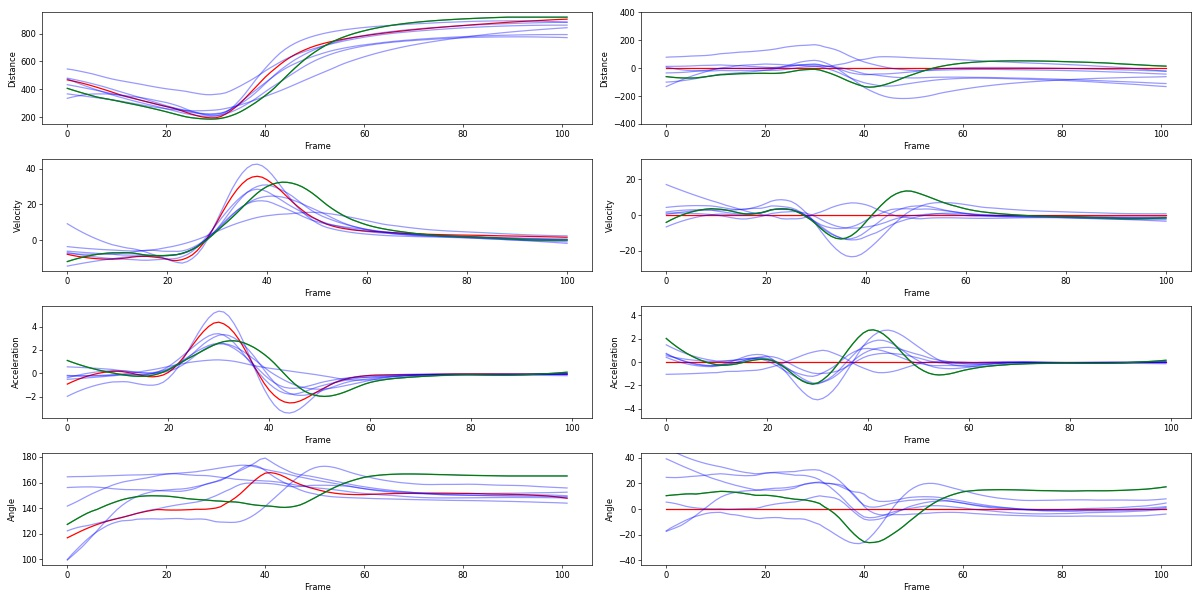
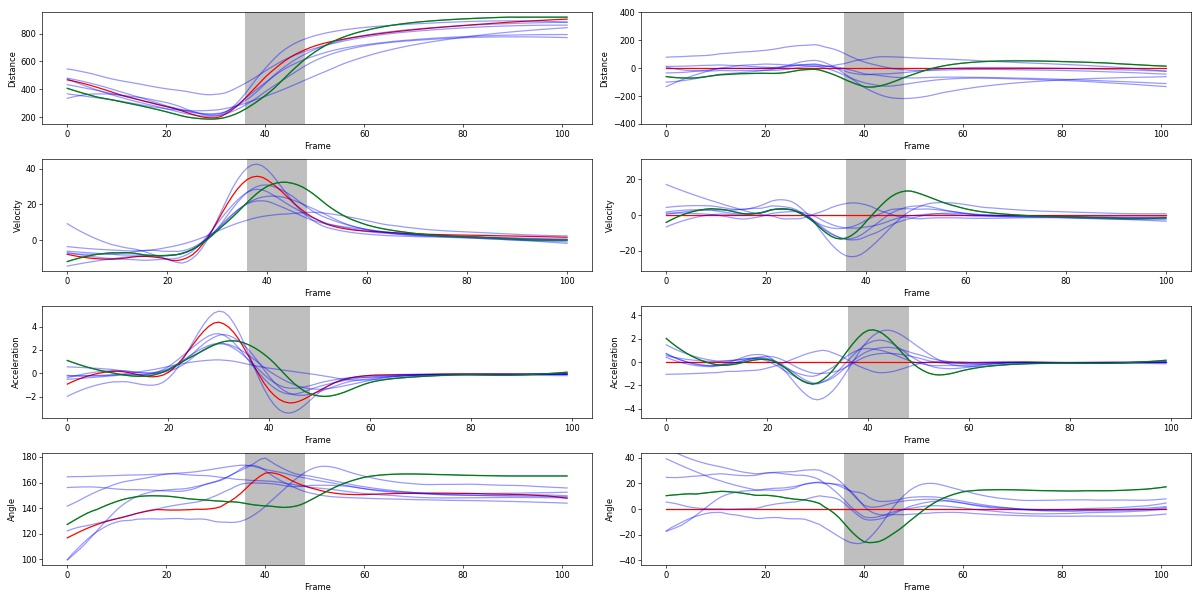
week6 end

diff --git a/vis.py b/vis.py
@@ -10,6 +10,7 @@ import matplotlib.pyplot as plt
 from mpl_toolkits.mplot3d import Axes3D
 from colour import Color
 import time
+from smart_frame_select import smart_sel
 from v1f import v1
 from v2f import v2
 from v3f import v3
@@ -279,7 +280,7 @@ def Hagerstrand(plot1,index,bones,joints,graph_id):
         
 def plotpositionalderivatives(index,bones,joints,plot_num):
     #plot number starts from 0 i.e. plot 0  is for rf3
-    
+    hl= smart_sel()
     fig, axs = plt.subplots(4,2,figsize=(20, 10))
    
     
@@ -298,9 +299,7 @@ def plotpositionalderivatives(index,bones,joints,plot_num):
     #normalise
     ymin, ymax = axs[0,0].get_ylim()
     y_range = ymax-ymin
-
-
-    
+        
     df=v8(index)
     axs[0,1].plot(df.iloc[0,:],'r')
     axs[0,1].plot(df.iloc[1,:],'b',alpha=0.4)
@@ -315,8 +314,8 @@ def plotpositionalderivatives(index,bones,joints,plot_num):
     axs[0,1].set_xlabel('Frame')   
     #normalise
     axs[0,1].set_ylim([-y_range/2, y_range/2])
-
     
+
     df=v2(index)
     axs[1,0].plot(df.iloc[0,:],'r')
     axs[1,0].plot(df.iloc[1,:],'b',alpha=0.4)
@@ -347,6 +346,8 @@ def plotpositionalderivatives(index,bones,joints,plot_num):
     axs[1,1].set_xlabel('Frame')   
     #normalise
     axs[1,1].set_ylim([-y_range/2, y_range/2])        
+
+    
     
     df=v3(index)
     axs[2,0].plot(df.iloc[0,:],'r')
@@ -364,6 +365,8 @@ def plotpositionalderivatives(index,bones,joints,plot_num):
     ymin, ymax = axs[2,0].get_ylim()
     y_range = ymax-ymin
 
+
+
     df=v10(index)
     axs[2,1].plot(df.iloc[0,:],'r')
     axs[2,1].plot(df.iloc[1,:],'b',alpha=0.4)
@@ -378,7 +381,7 @@ def plotpositionalderivatives(index,bones,joints,plot_num):
     axs[2,1].set_xlabel('Frame')   
         #normalise
     axs[2,1].set_ylim([-y_range/2, y_range/2])
-    
+
     df=v4(15)
     axs[3,0].plot(df.iloc[0,:],'r')
     axs[3,0].plot(df.iloc[1,:],'b',alpha=0.4)
@@ -410,6 +413,16 @@ def plotpositionalderivatives(index,bones,joints,plot_num):
     #normalise
     axs[3,1].set_ylim([-y_range/2, y_range/2])
     
+    for i in hl[plot_num]:
+        axs[0,0].axvspan(i, i+1, facecolor='grey', alpha=0.5)
+        axs[1,0].axvspan(i, i+1, facecolor='grey', alpha=0.5)
+        axs[2,0].axvspan(i, i+1, facecolor='grey', alpha=0.5)
+        axs[3,0].axvspan(i, i+1, facecolor='grey', alpha=0.5)
+        axs[0,1].axvspan(i, i+1, facecolor='grey', alpha=0.5)
+        axs[1,1].axvspan(i, i+1, facecolor='grey', alpha=0.5)
+        axs[2,1].axvspan(i, i+1, facecolor='grey', alpha=0.5)
+        axs[3,1].axvspan(i, i+1, facecolor='grey', alpha=0.5)
+
     fig.tight_layout()
     #for preload
 #    plt.savefig("std_vis_%d.jpg"%(plot_num), dpi=60)    
@@ -417,4 +430,4 @@ def plotpositionalderivatives(index,bones,joints,plot_num):
 
 bones=[[0,1],[1,2],[2,3],[0,6],[6,7],[7,8],[0,12],[12,13],[13,14],[14,15],[13,17],[17,18],[18,19],[13,25],[25,26],[26,27]]
 joints=[0,1,2,3,6,7,8,12,13,14,15,17,18,19,25,26,27]
-plotpositionalderivatives(16,bones,joints,1)
+plotpositionalderivatives(16,bones,joints,7)

diff --git a/main_ai.py b/main_ai.py
@@ -120,7 +120,7 @@ jeleton2=temp[1]
 running = True
 #------------------------------------------------------------------------------
 #change plot menu
-plot_num= 4
+plot_num= 1
 def M2(m):
     global plot_num,plot1,plot3,plot4,plot5,plot6,plot7,plot8,plot9,plot10,running
     val = m.selected
@@ -184,6 +184,8 @@ gwt2 = wtext(text="\n\n<img src='std_vis_1.jpg'/>",pos=scene.caption_anchor)
 #-----------------------------------------------------------------------------
 scene.append_to_caption( "\n\n Adjust slider to change frame of animation: \n\n")
 
+
+anime= True
 def Play(b):
     global anime
     if anime== True:
@@ -197,6 +199,19 @@ def Play(b):
 
 play_b=button(text="Pause", pos=scene.caption_anchor, bind=Play)
 
+var_speed= True
+def Timewarp(b):
+    global var_speed
+    if var_speed== True:
+        var_speed = False
+        b.text="Timewarp On"
+        
+    else:
+        var_speed = True
+        b.text="Timewarp Off"
+        
+
+time_b=button(text="Timewarp Off", pos=scene.caption_anchor, bind=Timewarp)
 
 #frame slider 
 
@@ -339,12 +354,19 @@ def getevent():
 scene.bind("mousedown", getevent)
 #-----------------------------------------------------------------------------
 #update frames when running = True
-anime = True
+hl=smart_sel()
+
+
 while True:
+    
+    
     if anime:
-        
-                
-        rate(10)
+        if var_speed:
+            if frame in hl[plot_num]:        
+                sleep(1/2)
+
+    
+        sleep(1/14)
         sl.value=frame    
         temp=create_frame(skeleton,jeleton,frame,plot1,bones,joints,True,False)
         skeleton=temp[0]

diff --git a/smart_frame_select.py b/smart_frame_select.py
@@ -103,3 +103,4 @@ def smart_sel():
 #    fig.tight_layout()
 
     return hl
+smart_sel()
